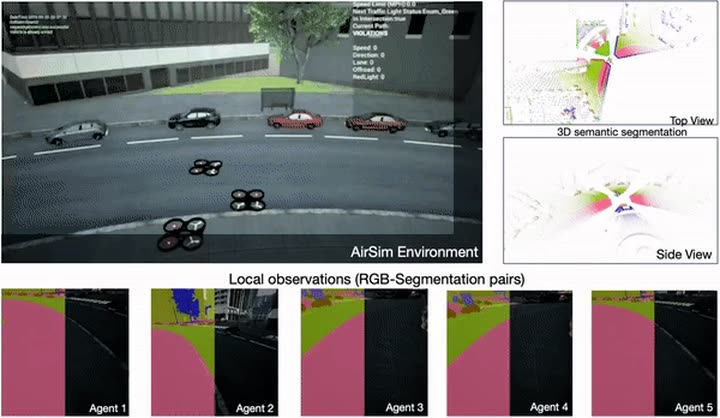
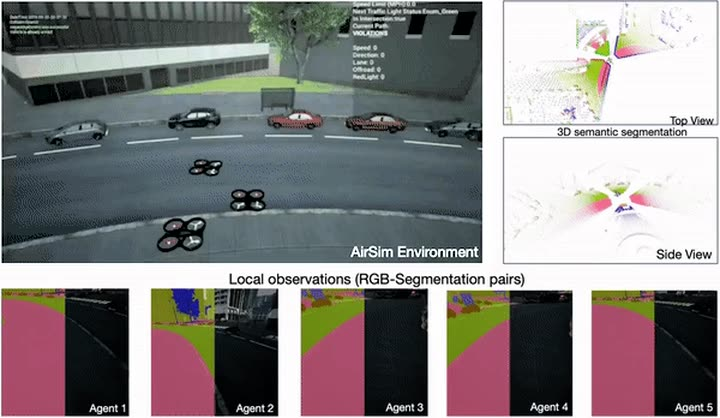
hero/timeline: tighten AirSim gamma crop + bump internship months to 4
AirSim selective-gamma crop grows from 378x195 to 410x220 — fully
covers the AirSim Environment panel (including its label) so there's
no thin unprocessed edge around it.

Internship tally treats each summer as May–Aug (4 months), not Jun–Aug
(3). 6 internships × 4 mo = 24 mo (was 18), so the equation moves
from 1.5 to ~2.0 on the internship side.

Changed region(s): [[0.0, 0.0, 0.6722, 0.6531]]

diff --git a/index.html b/index.html
@@ -441,7 +441,7 @@
       (function () {
         var root = document.getElementById('work-years');
         if (!root) return;
-        var internMo = 6 * 3;                                 // 6 summer internships
+        var internMo = 6 * 4;                                 // 6 summer internships, May–Aug each
         var now = new Date();
         var ftMo = 23 + 22 + (now.getFullYear() - 2024) * 12 + now.getMonth();
         var totalMo = internMo + ftMo;